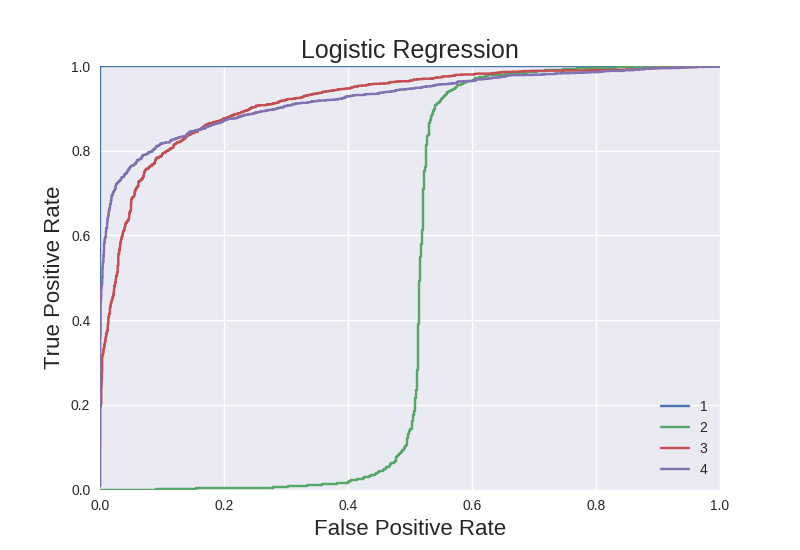
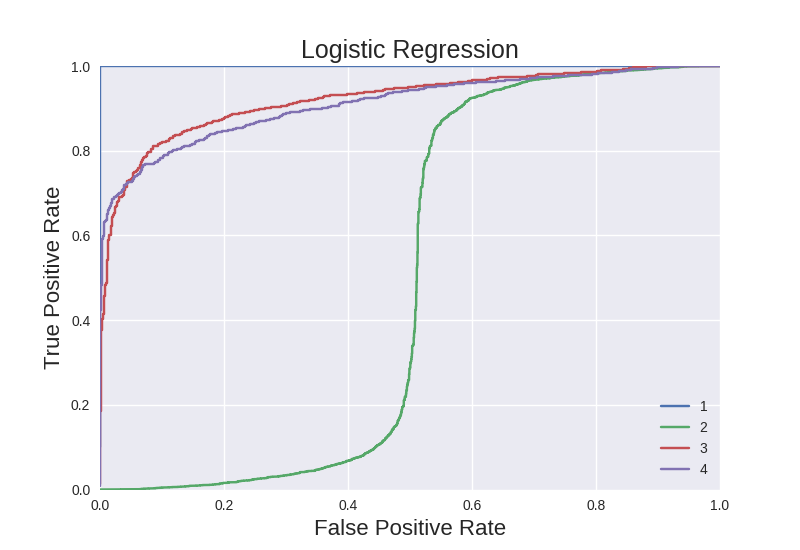
Update blog post on classifying graphs with results from updated code.  Edit some content.

diff --git a/_posts/2017-03-4-classifying-graphs-with-shortest-paths.md b/_posts/2017-03-4-classifying-graphs-with-shortest-paths.md
@@ -9,19 +9,16 @@ Graphs can be an easy and intuitive way of representing interactions between age
 
 One of the most natural applications of network science is analyzing clickstream data.  In particular, we can represent users' browsing sessions as graphs.  In the simplest case, we can use vertices to represent the pages that users have visited and directed edges to represent that a user has navigated from one page to another.  A more sophisticated model might might use edge weights to record the number of times the user navigated from one page to another in a single session.  In fact, if we normalize the outgoing edge weights of each vertex, we can derive a [Markov model](https://en.wikipedia.org/wiki/Markov_model) of the dynamics of the browsing session.
 
-My motivation and goal of modeling users' browsing sessions as graphs is to be able to segment users by their browsing behaviors. In my previous role at Red Hat, I was interested in segmenting users based on the products they were interested in.  In that case, I modeled traffic from all users to form a single large graph of the site.  I tried applying community detection algorithms (including spectral-clustering-like approaches) but had little success.
+My motivation and goal of modeling users' browsing sessions as graphs is to be able to segment users by their browsing behaviors. For example, I may want to train a machine learning model to discriminate between users who are likely to make a purchase (convert) versus those who are just window shopping using graphs generated from their browsing sessions. I don't know the content of the web sites, and web sites can be structured differently. Thus, I won't be able to match vertices between separate graphs easily. As such, I want to engineer features based purely on topological features of the graphs that are invariant to permutations of vertices and the number of edges and vertices in graphs.
 
-In my current role, I want to train a machine learning model to discriminate between users who are likely to make a purchase (convert) versus those who are window shopping using graphs generated from their browsing sessions. I don't know the content of the web sites and web sites can be structured differently. Thus, I want to engineer features based purely on topological features of the graphs that are invariant to permutations of vertices and the number of edges and vertices in graphs.
+There are several ways to approach classifying graphs with machine learning models. One approach is simply to engineer a bunch of features from different statistics computed from the graphs.  [Li, et al.](http://onlinelibrary.wiley.com/doi/10.1002/sam.11153/full) describe a number of metrics including the [average clustering coefficient](https://en.wikipedia.org/wiki/Clustering_coefficient) and the average path length ([closeness centrality](https://en.wikipedia.org/wiki/Closeness_centrality)). However, be aware that some of their features (such as the numbers of edges and vertices) probably won't be useful if you are comparing graphs of different sizes.
 
-There are several ways to approach for classifying graphs with machine learning models. One approach is simply to engineer a bunch of features from different statistics computed from the graphs.  [Li, et al.](http://onlinelibrary.wiley.com/doi/10.1002/sam.11153/full) describe a number of metrics including the [average clustering coefficient](https://en.wikipedia.org/wiki/Clustering_coefficient) and the average path length ([closeness centrality](https://en.wikipedia.org/wiki/Closeness_centrality)).
+A second approach would be to use [graph kernels](https://en.wikipedia.org/wiki/Graph_kernel), functions for computing a similarity score between two graphs. A number of machine learning methods (called [kernel methods](https://en.wikipedia.org/wiki/Kernel_method)) such as Support Vector Machines and Principal Component Analysis can be adapted to use inner products computed between pairs of data points using a kernel instead of feature vectors.  Such kernel methods are advantageous since they enable these method to be extended to data types that are difficult to represent with traditional feature vectors. Often-cited graph kernels include [Shortest-Paths](http://ieeexplore.ieee.org/abstract/document/1565664/), [Graphlet](http://www.jmlr.org/proceedings/papers/v5/shervashidze09a/shervashidze09a.pdf), and [Random Walk]((https://en.wikipedia.org/wiki/Graph_kernel) kernels. At [NIPS 2016](http://nips.cc), I saw a very nice presentation by [Risi Kondor](https://www.cs.uchicago.edu/directory/risi-kondor) on the [Multiscale Laplacian Graph Kernel](http://papers.nips.cc/paper/6135-learning-bound-for-parameter-transfer-learning.pdf), which both allows incorprating features computed on vertices and edges as well as adapting well to multi-scale problems like protein structures.
 
-A second approach would be to use [graph kernels](https://en.wikipedia.org/wiki/Graph_kernel), functions for computing a similarity score between two graphs. A number of machine learning methods (called [kernel methods](https://en.wikipedia.org/wiki/Kernel_method)) such as Support Vector Machines and Principal Component Analysis can be adapted to use an inner products computed between pairs of data points using a kernel instead of feature vectors.  Such kernel methods are advantageous since they enabled these method to be extended to data types that are difficult to represent with traditional feature vectors. Well-known graph kernel approaches include [Shortest-Paths](http://ieeexplore.ieee.org/abstract/document/1565664/), [Graphlet](http://www.jmlr.org/proceedings/papers/v5/shervashidze09a/shervashidze09a.pdf), and [Random Walk]((https://en.wikipedia.org/wiki/Graph_kernel) kernels. At [NIPS 2016](http://nips.cc), I saw a very nice presentation by [Risi Kondor](https://www.cs.uchicago.edu/directory/risi-kondor) on the [Multiscale Laplacian Graph Kernel](http://papers.nips.cc/paper/6135-learning-bound-for-parameter-transfer-learning.pdf), which both allows incorprating features computed on vertices and edges as well as adapting well to multi-scale problems like protein structures.
-
-For this blog post, I'm going to focus on training and evaluating machine learning models on the ability to discriminate between undirected graphs generated by the [Erdős–Rényi](https://en.wikipedia.org/wiki/Erd%C5%91s%E2%80%93R%C3%A9nyi_model) and [planted partitioned](https://en.wikipedia.org/wiki/Stochastic_block_model) random graph models. I'm using the experimental framework from a paper on [generalized Shortest-Path graph kernels](https://arxiv.org/pdf/1510.06492). Here are examples of two such graphs:
+For this blog post, I'm going to focus on evaluating the ability of machine learning models to discriminate between undirected graphs generated by the [Erdős–Rényi](https://en.wikipedia.org/wiki/Erd%C5%91s%E2%80%93R%C3%A9nyi_model) and [planted partitioned](https://en.wikipedia.org/wiki/Stochastic_block_model) random graph models. I'm using the experimental framework from a paper on the [generalized Shortest-Path graph kernel](https://arxiv.org/pdf/1510.06492). Instead of using graph kernels, I'm first going to focus on features engineered from the distribution of lengths of the shortest-paths between all pairs of vertices. Here are examples of two such graphs:
 
 ![graphs](/images/classifying-graphs-with-shortest-paths/graphs.png)
 
-Instead of using graph kernels, I'm going to focus on features engineered from the distribution of lengths of the shortest-paths between all pairs of vertices.
 
 ## Generating the Graphs
 I'm choosing to generate 100 graphs of each type. Each graph has 100 vertices.  For the ER model, I'm using an edge probability of 0.2.  Following the direction of the generalized shortest-path graph kernels paper, I set the parameters for the planted partitioned model to generate the same number of edges as the ER model, with a multiplier for $$p_1$$ of 1.6.
@@ -43,40 +40,46 @@ The difference in the distribution of distances for graphs from different models
 As I mentioned earlier, instead of using a kernel method, I focused on generating features that could be used with standard machine learnign models.  I focused on four modeling approaches:
 
 1. One feature vector for each graph. The features were the $$L_2$$ normalized histogram of all-pairs shortest-path lengths.  I used bin-sizes of 1 with enough bins to include the longest path found. (In my case, all of the graphs had the same maximum length of 3.) The ER graphs were labeled as 0, while the PP graphs were labeled as 1.
-2. Represent each pair of graphs as a feature vector. I computed the difference in the normalized histograms of the all-pairs shortest-paths lengths.  Feature vectors containing graphs from the same model were labeled 0, while feature vectors for graphs from different models were labeled 0.
-3. Same as #2, except that I took the absolute value of the differences.
-4. Like approaches #2 and #3, I used pairs of graphs. I used a single feature -- the distance calculated between the normalized histograms from each pair.
+2. Represent each pair of graphs as a feature vector. I computed the difference in the normalized histograms of the all-pairs shortest-paths lengths.  Since the differences aren't symmetric, I computed the differences each way and added two feature vectors for each pair. Feature vectors containing graphs from the same model were labeled 0, while feature vectors for graphs from different models were labeled 0.
+3. Same as #2, except that I took the absolute value of the differences and only added one feature vector per pair.
+4. Like approach #3, I used pairs of graphs. I used a single feature -- the Euclidean distance calculated between the normalized histograms from each pair.
 
 ## Experiments
 I used [Logistic Regression with Stochastic Gradient Descent](http://scikit-learn.org/stable/modules/generated/sklearn.linear_model.SGDClassifier.html#sklearn.linear_model.SGDClassifier) and [Random Forests](http://scikit-learn.org/stable/modules/generated/sklearn.ensemble.RandomForestClassifier.html) for classification.  I used 1,000 epochs for LR, and 100 trees for RF. I perfomed 10-fold stratified cross-fold validation and used accuracy and area under the ROC curve as metrics. Accuracy utilizes binary predictions, while the ROC AUC utilizes the predicted probabilities.
 
 | Features Type | Classifier | ROC AUC (std) | Accuracy (%, std) |
 |:-------------:|:----------:|:-------------:|:-----------------:|
-| 1             | LR         | 0.999 (0.003) | 93.5 (13.2)       |
-| 1             | RF         | 1.0 (0.0)     | 99.5 (1.5)        |
-| 2             | LR         | 0.490 (0.006) | 49.4 (4.4)        |
-| 2             | RF         | 0.996 (0.011) | 97.4 (0.2)        |
-| 3             | LR         | 0.921 (0.003) | 83.9 (0.4)        |
-| 3             | RF         | 0.999 (0.000) | 99.7 (0.1)        |
-| 4             | LR         | 0.930 (0.004) | 53.1 (9.3)        |
-| 4             | RF         | 0.954 (0.004) | 87.1 (0.5)        |
+| 1             | LR         | **1.0 (0.0)** | **98.0 (3.3)**    |
+| 1             | RF         | **1.0 (0.0)** | **100.0 (0.0)**   |
+| 2             | LR         | 0.490 (0.006) | 66.7 (0.0)        |
+| 2             | RF         | **0.999 (0.0)** | **99.3 (0.0)**  |
+| 3             | LR         | 0.910 (0.007) | 71.1 (0.4)        |
+| 3             | RF         | **0.999 (0.0)** | **99.2 (0.0)**  |
+| 4             | LR         | 0.914 (0.005) | 66.7 (0.0)        |
+| 4             | RF         | 0.921 (0.002) | 84.4 (0.4)        |
 
-We note that the LR performed well with feature type 1 (ROC AUC of 0.999 and accuracy of 93.5%) and reasonably with feature type 3 (ROC AUC of 0.921 and accuracy of 83.9%). LR performed very poorly with feature types 2 and 4.  RFs performed well with all feature types, with a minimum ROC AUC of 0.954 and accuracy of 87.1% on feature type 4. RFs maximum accuracies of 99.5% and 99.7% on feature types 1 and 3 -- where LR also performed best.
+LR performed well with feature type 1 with an average ROC AUC of 1.0 and average accuracy of 98.5%, but performed poorly on all other feature types. RFs performed well with feature types 1-3, achieving a minimum average ROC AUC of 0.999 and average accuracy of 99.2%. 
 
 We see these results reflected in ROC curves generated for each classifier from one of its 10 folds:
 
 ![LR ROC](/images/classifying-graphs-with-shortest-paths/lr_roc.png)
 
-The LR classifier has an abysmal ROC curve for feature type 2. The ROC curves for features types 2 and 3 are decent.  The ROC curve for feature type 1 appears to be perfect. (Note that the ROC curves are based on sorting by predicted probabilities, while the accuracies used the binary labels.)
+The LR classifier has an abysmal ROC curve for feature type 2. The ROC curves for features types 3 and 4 are decent.  The ROC curve for feature type 1 appears to be perfect. (Note that the ROC curves are based on sorting by predicted probabilities, while the accuracies used the binary labels.)
 
 ![RF ROC](/images/classifying-graphs-with-shortest-paths/rf_roc.png)
 
-The RF model performes nearly perfectly on feature types 1 and 3, as indicated by lines that are overlapping and barely visible on the plot. The ROC curve for feature type 2 also looks very good.  The ROC curve for feature type 4 is acceptable, largely an indication of how robust RF classifiers are.
+The RF model performes nearly perfectly on feature type 1, as indicated by the barely visible curve in the upper left of the plot. The ROC curve for feature types 2 and 3 are nearly perfect.  The ROC curve for feature type 4 is acceptable, largely an indication of how robust RF classifiers are.
 
 In terms of computational complexity, feature type 1 only requires creating a feature vector for each graph.  Feature types 2-4 require computing a feature vector or distance for each pair of graphs.
 
+Overall, it looks like feature type 1, where the feature vectors are the normalized histograms (bin size 1) of the all-pairs shortest-path lengths for each graph can be used to very accurately discriminate between graphs generated by the two models, regardless of the classifier used.
+
 ## Conclusion
-In this blog post, I looked at training machine learning models to discriminate between graphs generated by two different random graph models.  I gave some background on feature engineering and kernel methods for graphs.  I evaluated four ways of representing the problem and how the corresponding features would be generated.  I evaluated the four types of features using Logistic Regression and Random Forest classifiers. I observed that both LR and RF classifiers performed well when normalized histograms of the all-pairs shortest-paths lengths were used as features.
+In this blog post, I looked at training machine learning models to discriminate between graphs generated by two different random graph models.  I gave some background on feature engineering and kernel methods for graphs.  I looked at four ways of representing the problem and how the corresponding features would be generated.  I evaluated the four types of features using Logistic Regression and Random Forest classifiers. I observed that both LR and RF classifiers performed well when normalized histograms of the all-pairs shortest-paths lengths were used as features.
+
+Going forward, I'd like to evaluate additional types of features such as the average clustering coefficient and the distributions of graphlets found in the graphs. Using the feature-vector per pair approach (feature type 3), I could incorporate graph kernels as features. However, I would probably need to find a different way to represent the absolute differences in the histograms so that it's feasible to use Logistic Regression.  One may to do so might be to discretize the differences for each bin in the histogram into a set of bins.
+
+Once I have a reasonable set of useful features, I'd like to explore the effectiveness of this approach on small graphs since most user browsing sessions have far fewer than 100 nodes (e.g., 10).
 
 *The scripts used in the analyses are available in my [graph-experiments](https://github.com/rnowling/graph-experiments) repo on GitHub under the Apache Public License v2.*
 
